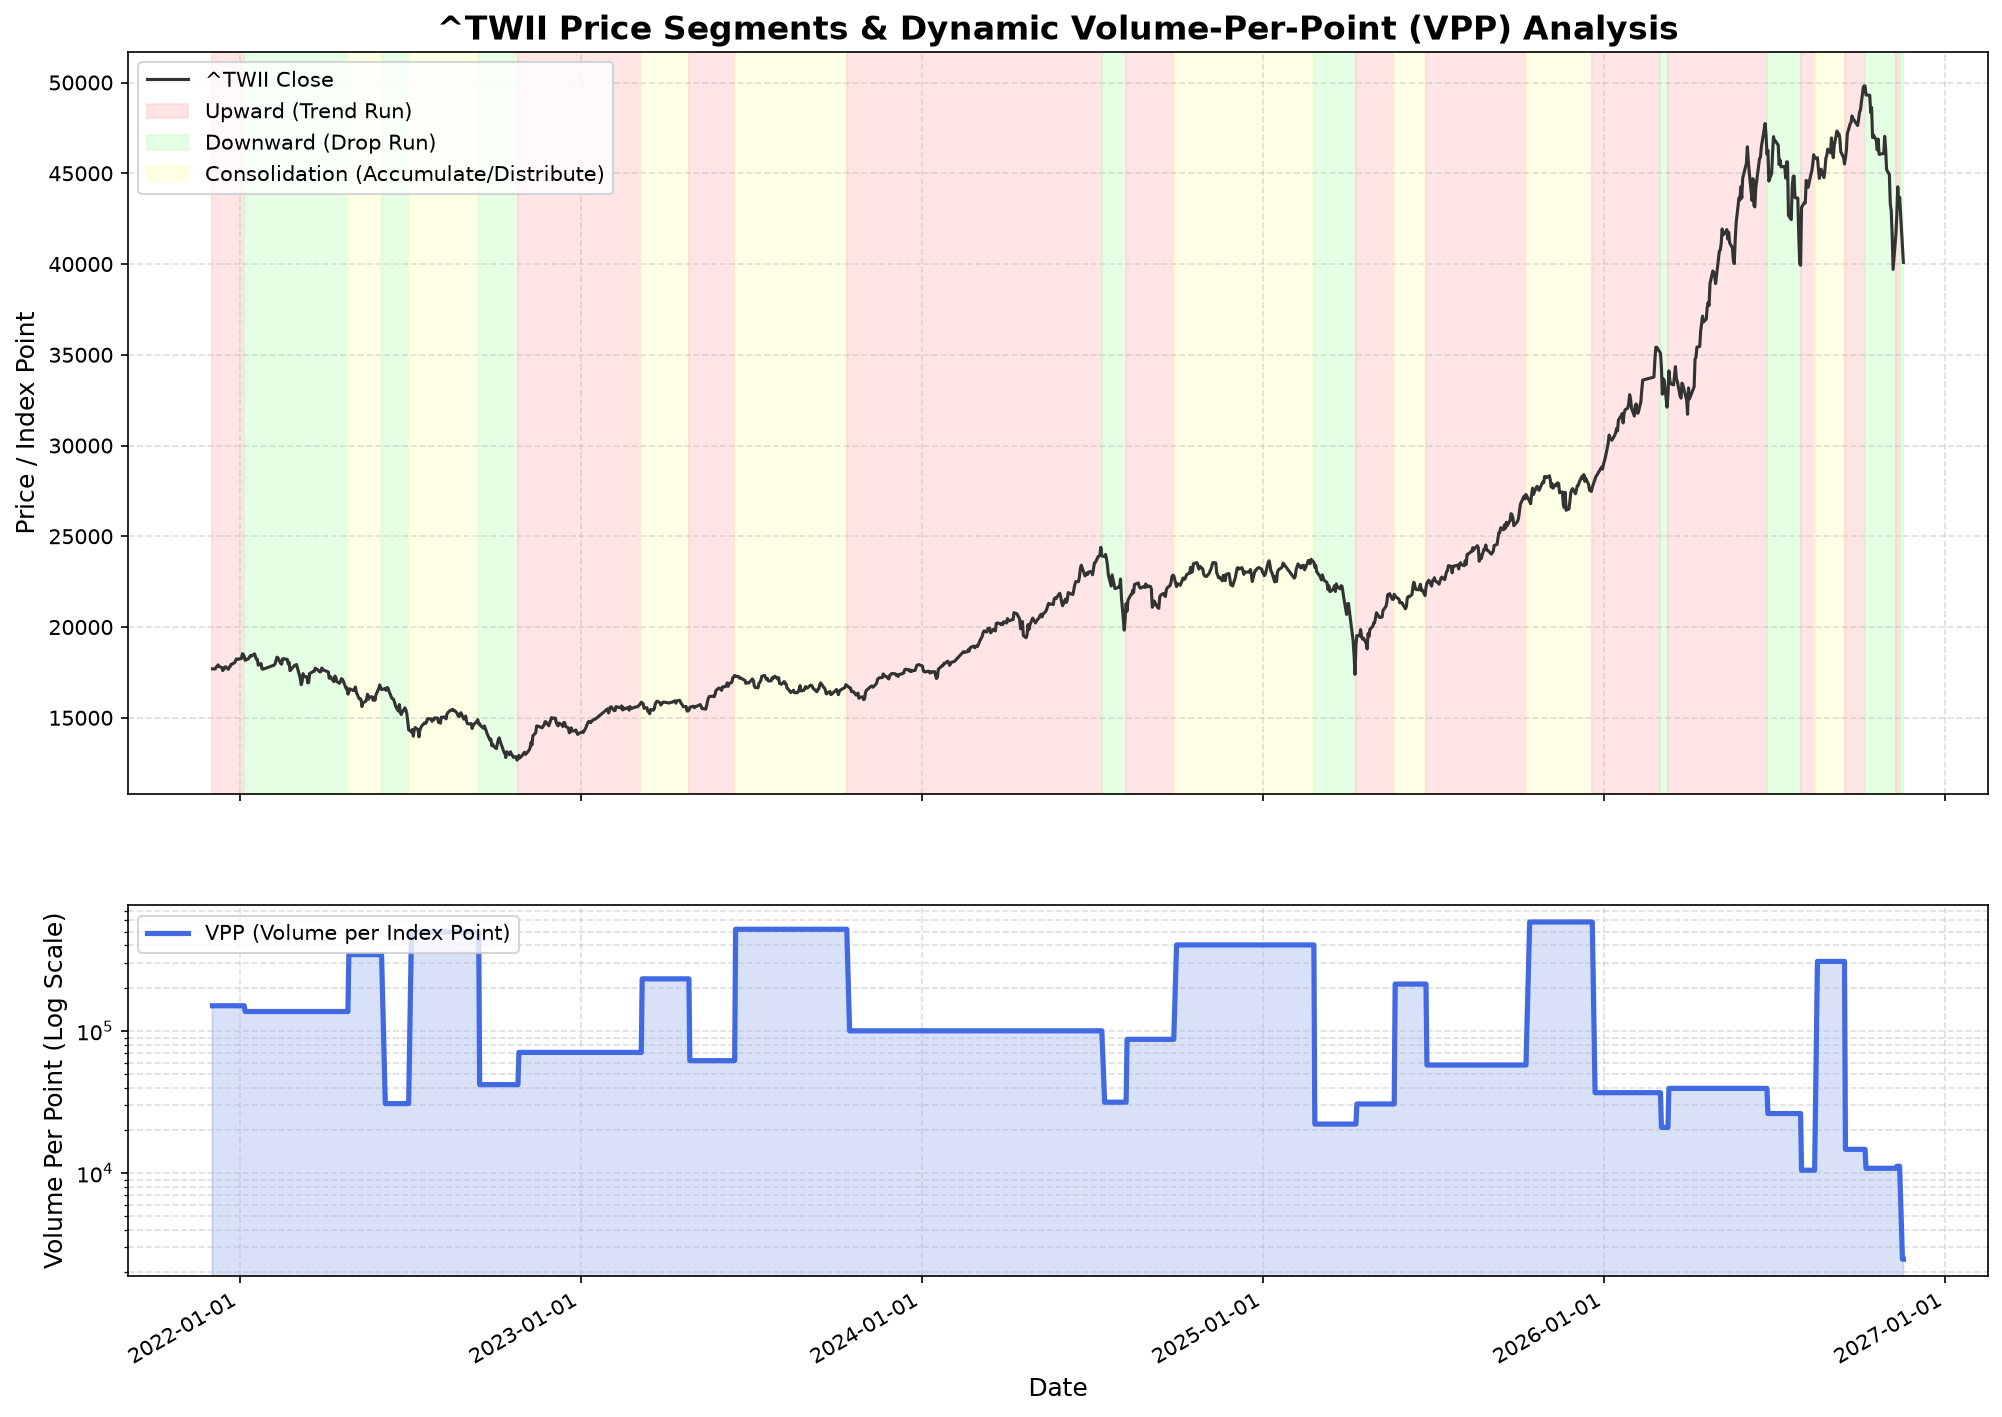
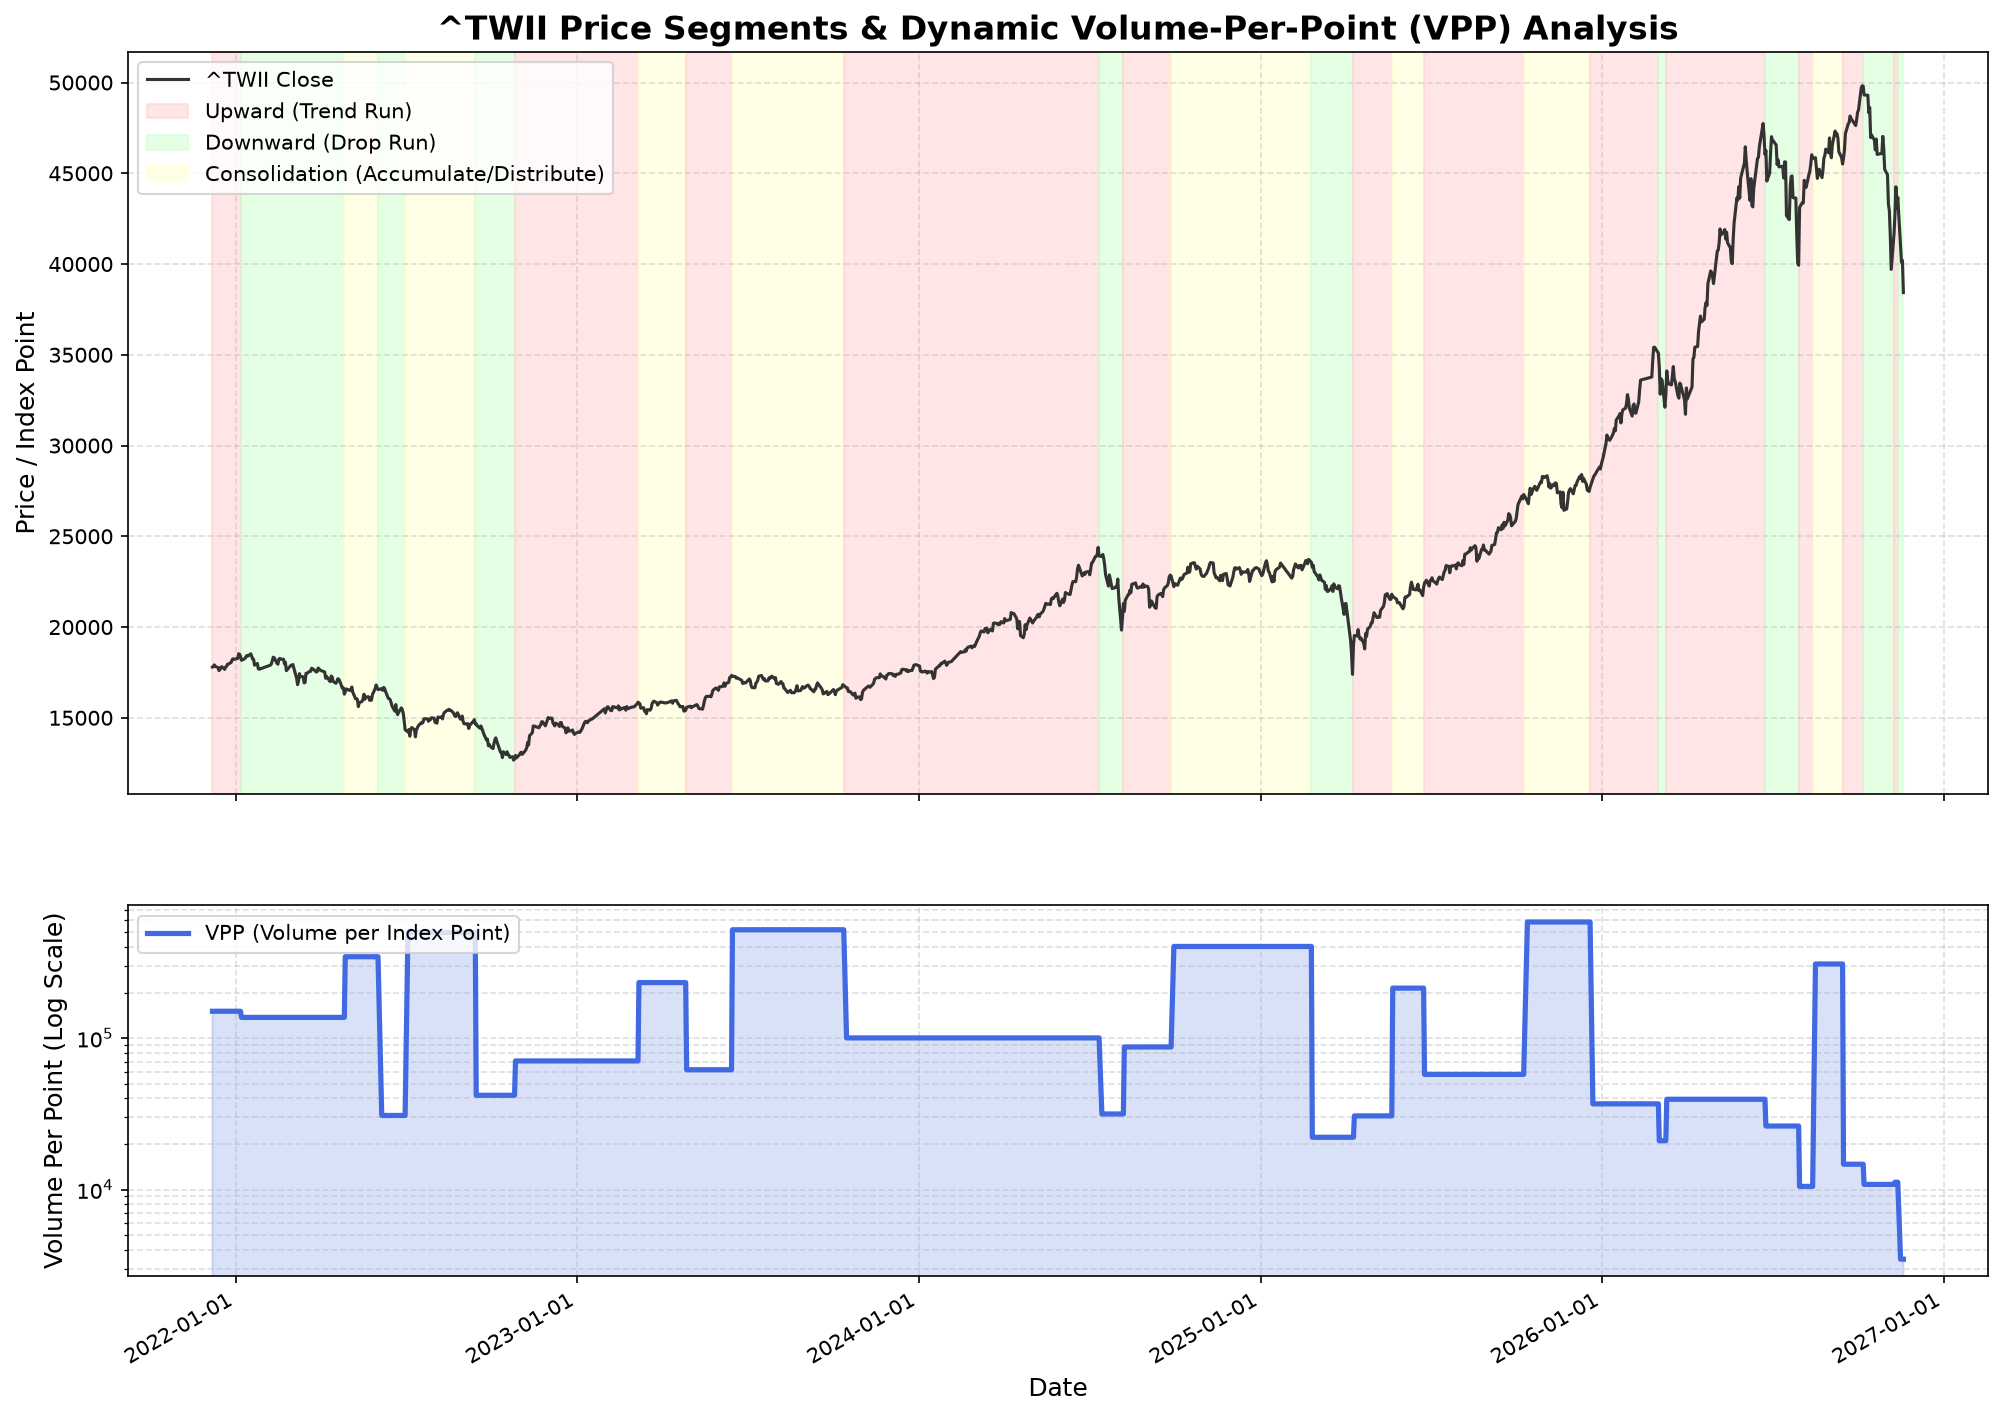
Auto-update momentum report & analysis (2026-11-19)

diff --git a/momentum.html b/momentum.html
@@ -57,7 +57,7 @@
                     <i class="fa-solid fa-bolt text-red-500"></i> 台股量價動能趨勢預估報告
                 </h1>
                 <p class="text-sm text-gray-400 mt-1">
-                    標的：加權指數 (^TWII) ｜ 模型：量價效率與波動對稱預估模型 ｜ 更新日期：2026-11-17
+                    標的：加權指數 (^TWII) ｜ 模型：量價效率與波動對稱預估模型 ｜ 更新日期：2026-11-19
                 </p>
             </div>
             <div class="flex items-center gap-3">
@@ -116,7 +116,7 @@
 ================================================================================
 【1. 量價效率分析 (Volume-Per-Point, VPP)】
   * 上漲波段: 平均移動 1 點需消耗 86,894 股之成交量
-  * 下跌波段: 平均移動 1 點需消耗 82,451 股之成交量
+  * 下跌波段: 平均移動 1 點需消耗 82,513 股之成交量
   * 盤整波段: 平均移動 1 點需消耗 1,376,197 股之成交量
   * 💡 學術結論：盤整段之 VPP 為上漲段的 15.8 倍、下跌段的 16.7 倍，極端證明了盤整區確實是高摩擦力的「籌碼吸納/主力出貨期」！
 --------------------------------------------------------------------------------
@@ -127,7 +127,7 @@
 --------------------------------------------------------------------------------
 【2-B. 波動等幅對稱分析 (二波段等幅規律 - 下跌趨勢)】
   * 樣本數: 15 次對接波段
-  * 平均等幅比率 (後波幅 / 前波幅): 161.50%
+  * 平均等幅比率 (後波幅 / 前波幅): 163.05%
   * 波動等幅對稱符合度 (漲跌幅在 80%~125% 內比例): 40.00%
 --------------------------------------------------------------------------------
 【3. 動能枯竭與接續判斷預測準確度】
@@ -138,15 +138,15 @@
 
   [短線動能預警 (3% 領先燈號)]
   * 短線波段狀態: 短線止跌上漲
-  * 短線轉折日期: 2026-11-17 (基準價 39,786.45)
-  * 短線累計漲跌: +0.77%
+  * 短線轉折日期: 2026-11-19 (基準價 38,259.70)
+  * 短線累計漲跌: +0.44%
   * 短線持續天數: 0 天
 --------------------------------------------------------------------------------
 【4. 波段機率落點與資金規劃分析 (Probabilistic Target &amp; Capital Planning)】
   * 目前波段型態: 【下跌趨勢波段】
   * 本波段起始點: 43,675.12 (2026-11-13)
   * 前一波下跌段幅: 16.35% (對稱基準點)
-  * 當前最新收盤價: 40,092.11 (目前跌幅: 8.20%, 目前對稱比率: 50.15%)
+  * 當前最新收盤價: 38,426.89 (目前跌幅: 12.02%, 目前對稱比率: 73.52%)
 
   * 💡 歷史波段對稱性機率落點與勝率列表 (Win Rate Targets):
     -----------------------------------------------------------------------------------------------
@@ -154,7 +154,7 @@
     -----------------------------------------------------------------------------------------------
     100%                 | 0.3389          | 5.54            % | 41,254.81             | 🔴 已達成
     90%                  | 0.3418          | 5.59            % | 41,234.61             | 🔴 已達成
-    80%                  | 0.5015          | 8.20            % | 40,093.76             | 🔴 已達成
+    80%                  | 0.5374          | 8.79            % | 39,837.88             | 🔴 已達成
     70%                  | 0.8328          | 13.62           % | 37,728.00             | ⚪ 未達成
     60%                  | 0.9858          | 16.12           % | 36,635.87             | ⚪ 未達成
     50%                  | 1.0245          | 16.75           % | 36,359.00             | ⚪ 未達成
@@ -165,7 +165,7 @@
     -----------------------------------------------------------------------------------------------
 
   * 🛠 資金與避險規劃建議 (Capital Planning Advice):
-    1. 【高勝率止跌帶 (80%-100% 勝率)】: 預期跌幅達到高勝率關卡（點位 41,254.81 ~ 40,093.76）。
+    1. 【高勝率止跌帶 (80%-100% 勝率)】: 預期跌幅達到高勝率關卡（點位 41,254.81 ~ 39,837.88）。
        - 資金規劃上，若空單部位在 80%~100% 區間，應積極獲利平倉，不宜過度追空。
     2. 【防守與避險建議】: 
        - 隨著勝率往 50% 或更低邁進，代表下跌空間為極端罕見情況，隨時有報復性反彈，應調降避險部位。
